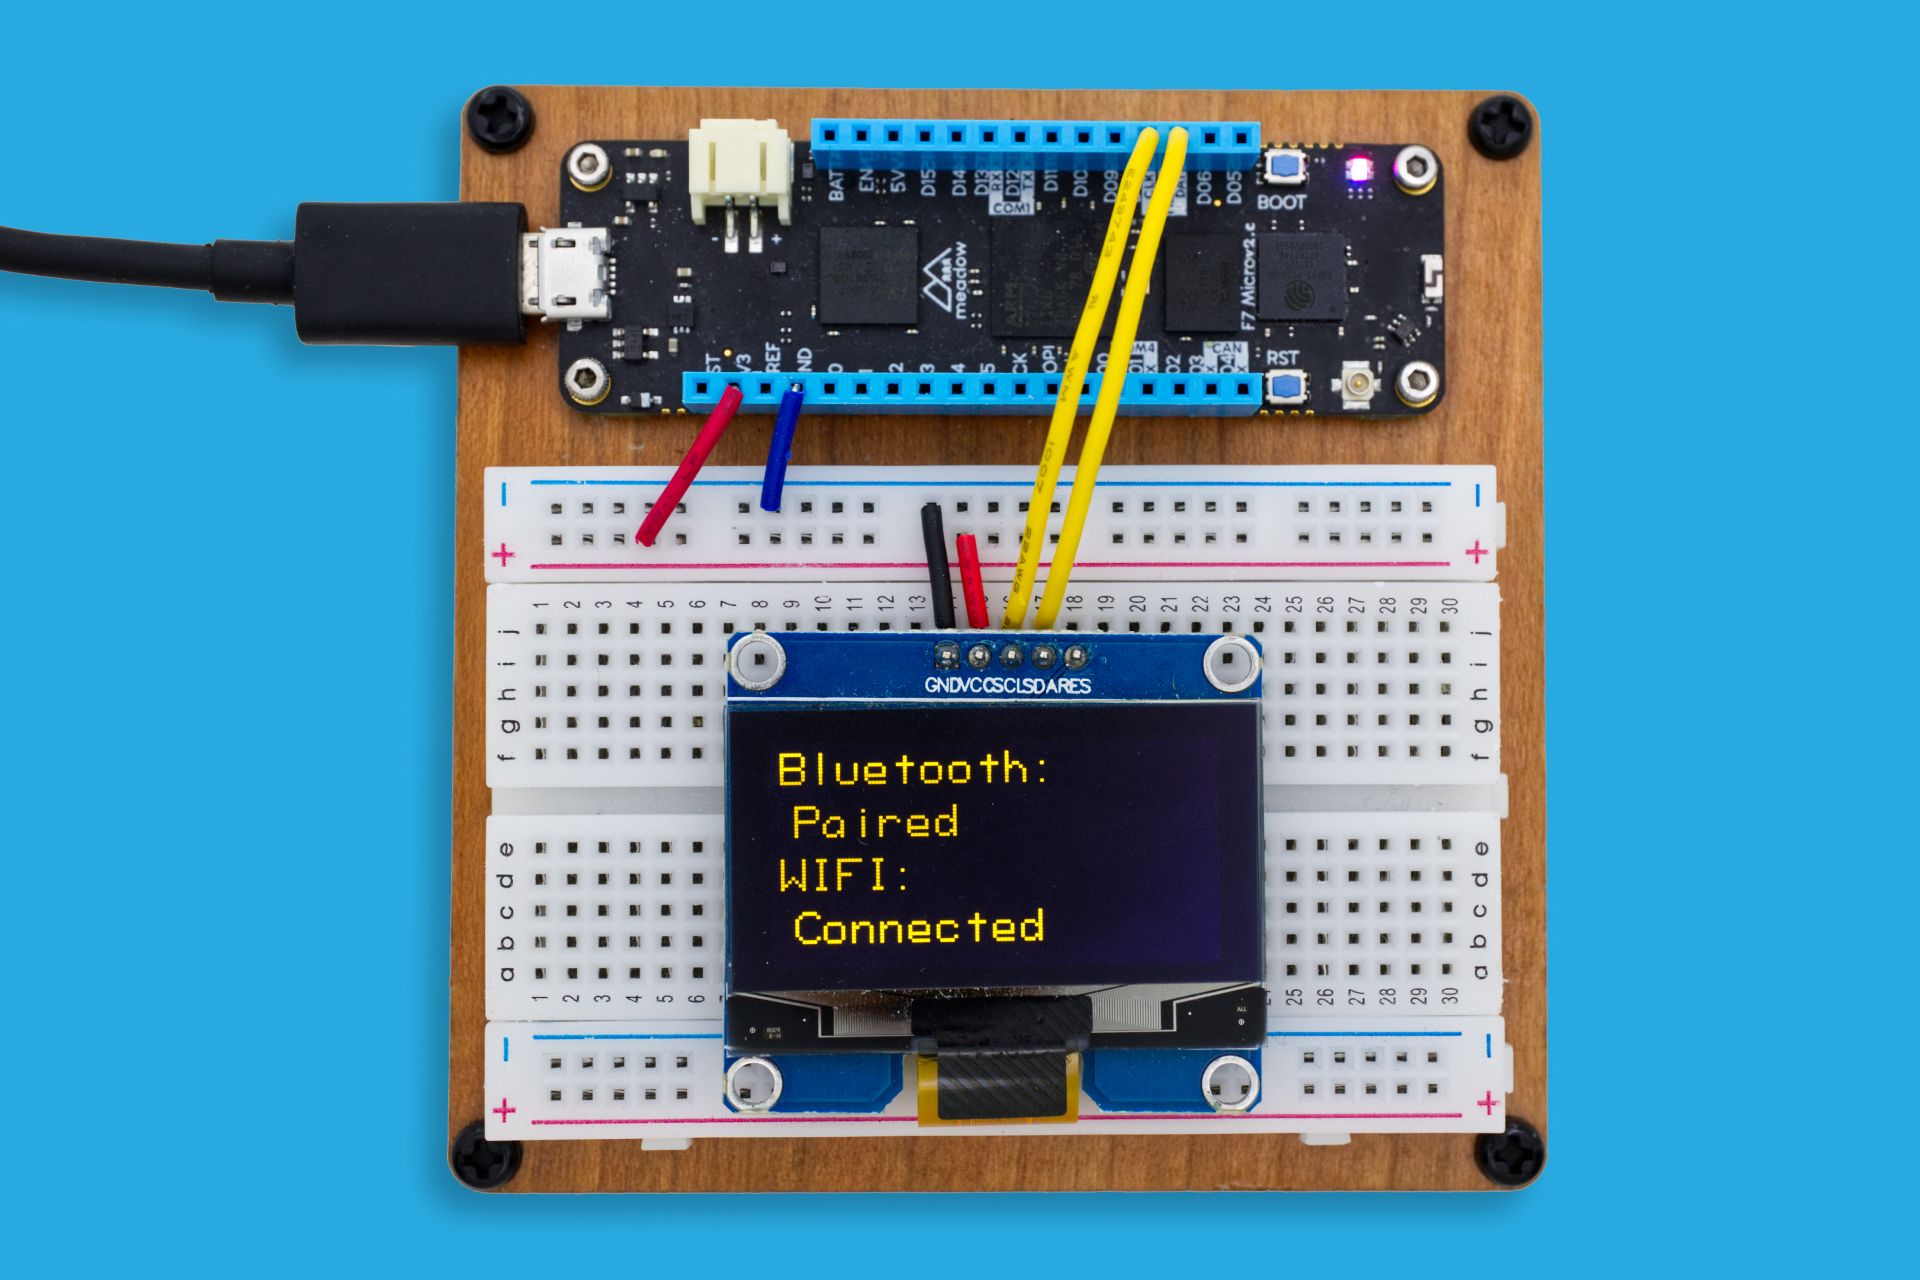
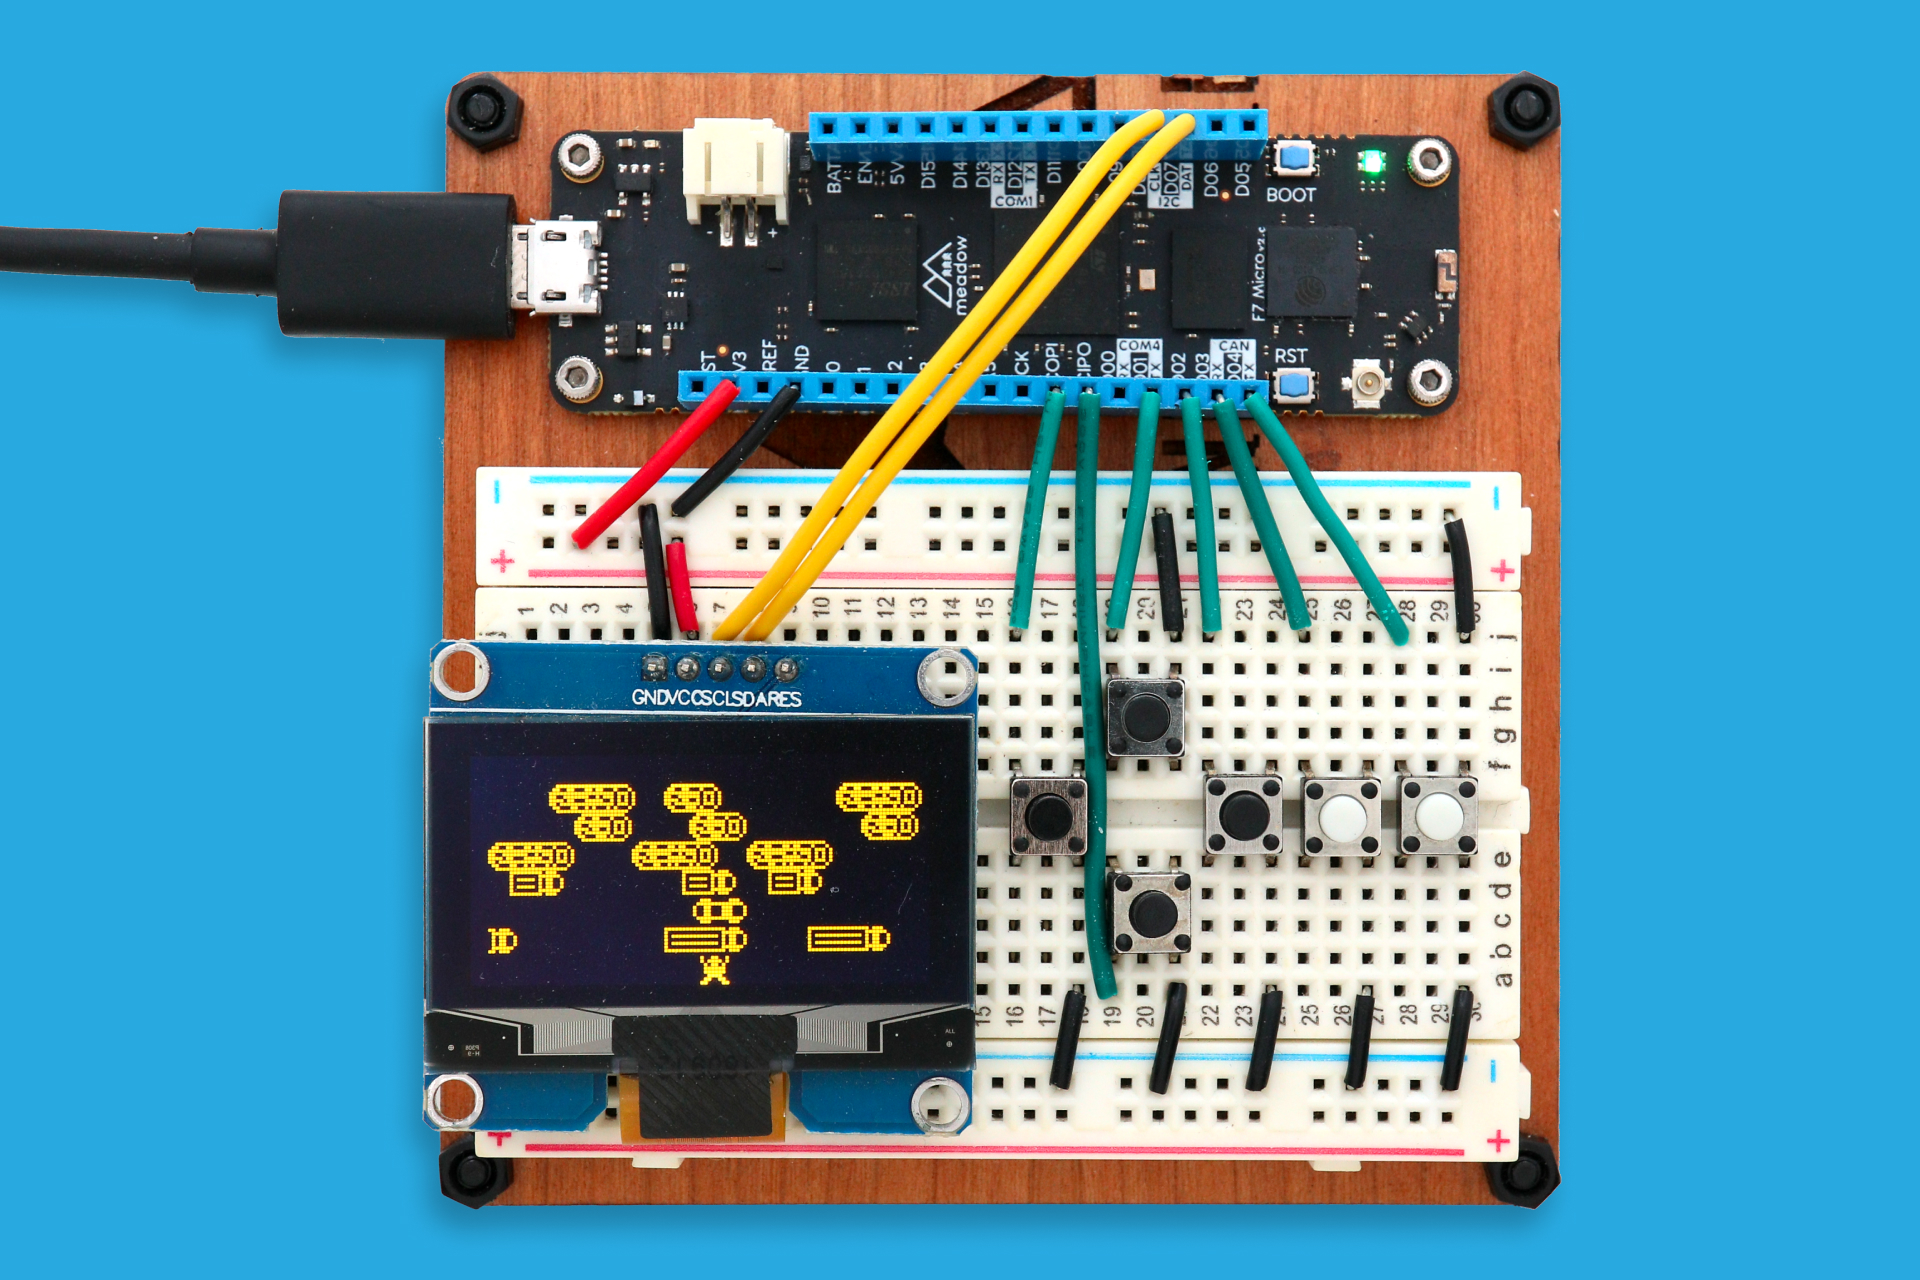
Update Readme

diff --git a/README.md b/README.md
@@ -9,8 +9,7 @@ Open-source, Meadow-powered, multigame handheld console with DPads, speakers and
 * [Getting Started](#getting-started)
 * [Hardware Specifications](#hardware-specifications)
 * [Pinout Diagram](#pinout-diagram)
-  * [Project Lab v1.e](#project-lab-v1e)
-  * [Project Lab v2.e](#project-lab-v2e)
+  * [Juego v2.c](#project-lab-v1e)
 * [Additional Samples](#additional-samples)
 
 ## Purchasing or Building
@@ -29,7 +28,7 @@ Open-source, Meadow-powered, multigame handheld console with DPads, speakers and
             You can get a Juego board from the <a href="https://store.wildernesslabs.co/collections/frontpage/products/project-lab-board">Wilderness Labs store</a>.
         </td>
         <td> 
-            You can also build a simpler Juego using Hack Kit components.
+            You can also build a simpler Juego using a monocolor display and push buttons.
         </td>
     </tr>
 </table>
@@ -93,7 +92,7 @@ To validate your Juego hardware, connect your Juego, and deploy the Juego_Demo a
 
 ## Juego Prototype
 
-This was an early hardware project to create a Meadow handheld multi-game project designed to work with 128x64 single color displays (SSD1306 or SSD1309)
+This was an early hardware project to create a Meadow handheld multi-game project designed to work with 128x64 or 320x240 single color displays (SSD1306 or SSD1309)
 
 Includes five games:
 
@@ -103,12 +102,26 @@ Includes five games:
 - Snake
 - Tetraminos (inspired by Tetris)
 
-!["Image of Juego Meadow prototype hardware"](./juego.png)
+!["Image of Juego Meadow prototype hardware"](Design/juego-ping-pong.jpg)
 
-## Fritzing Diagram with SSD1309 (SPI Connection)
+## Fritzing Diagrams of Juego using a Meadow Dev Kit
 
-!["Image of Juego Meadow prototype hardware"](./juego_spi_fritzing.png)
+<table width="100%">
+    <tr>
+        <td>
+            <img src="Design/juego_spi_fritzing.png" />
+        </td>
+        <td>
+            <img src="Design/juego_i2c_fritzing.png" /> 
+        </td>
+    </tr>
+    <tr>
+        <td>
+            Juego using a SSD1309 Display connected via SPI and Push Buttons.
+        </td>
+        <td> 
+            Juego using a SSD1309 Display connected via I2C and Push Buttons.
+        </td>
+    </tr>
+</table>
 
-## Fritzing Diagram with SSD1309 (I2C Connection)
-
-!["Image of Juego Meadow prototype hardware"](./juego_i2c_fritzing.png)
